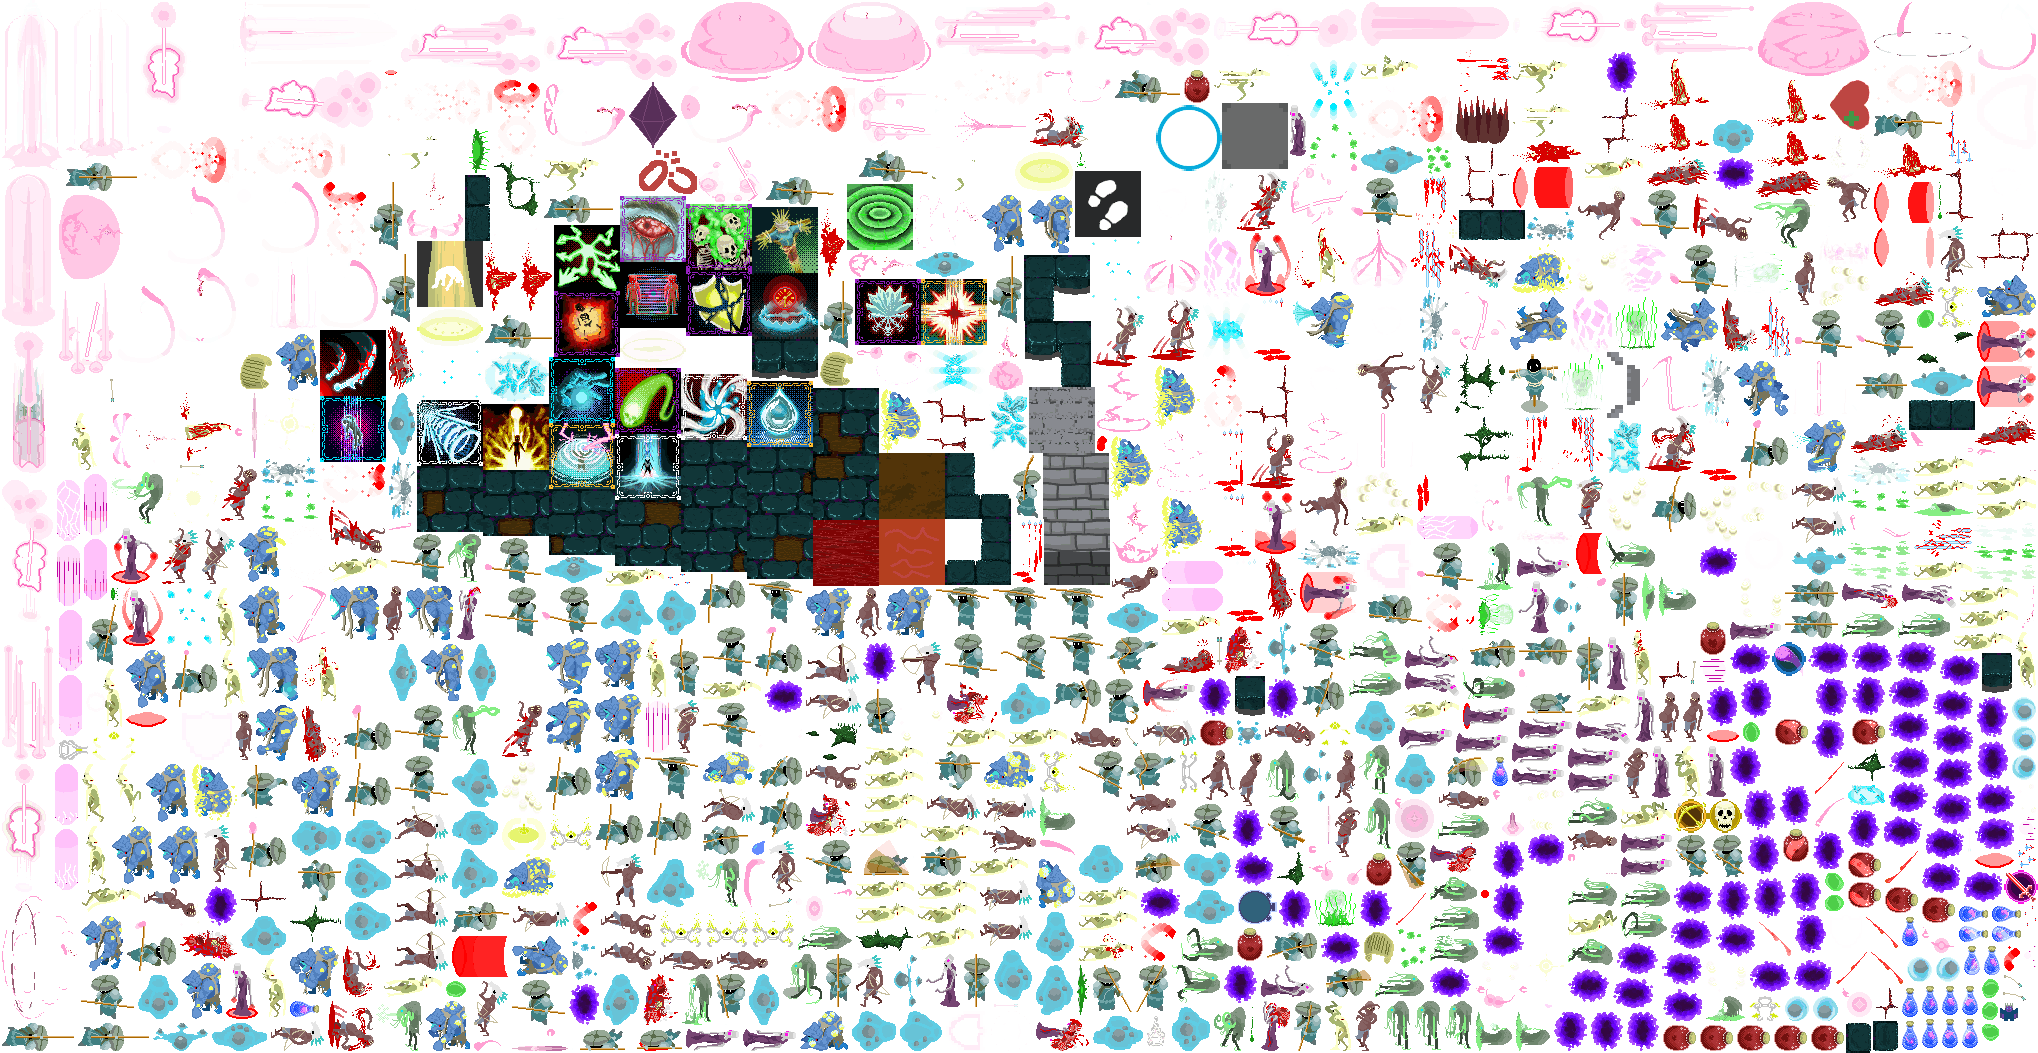
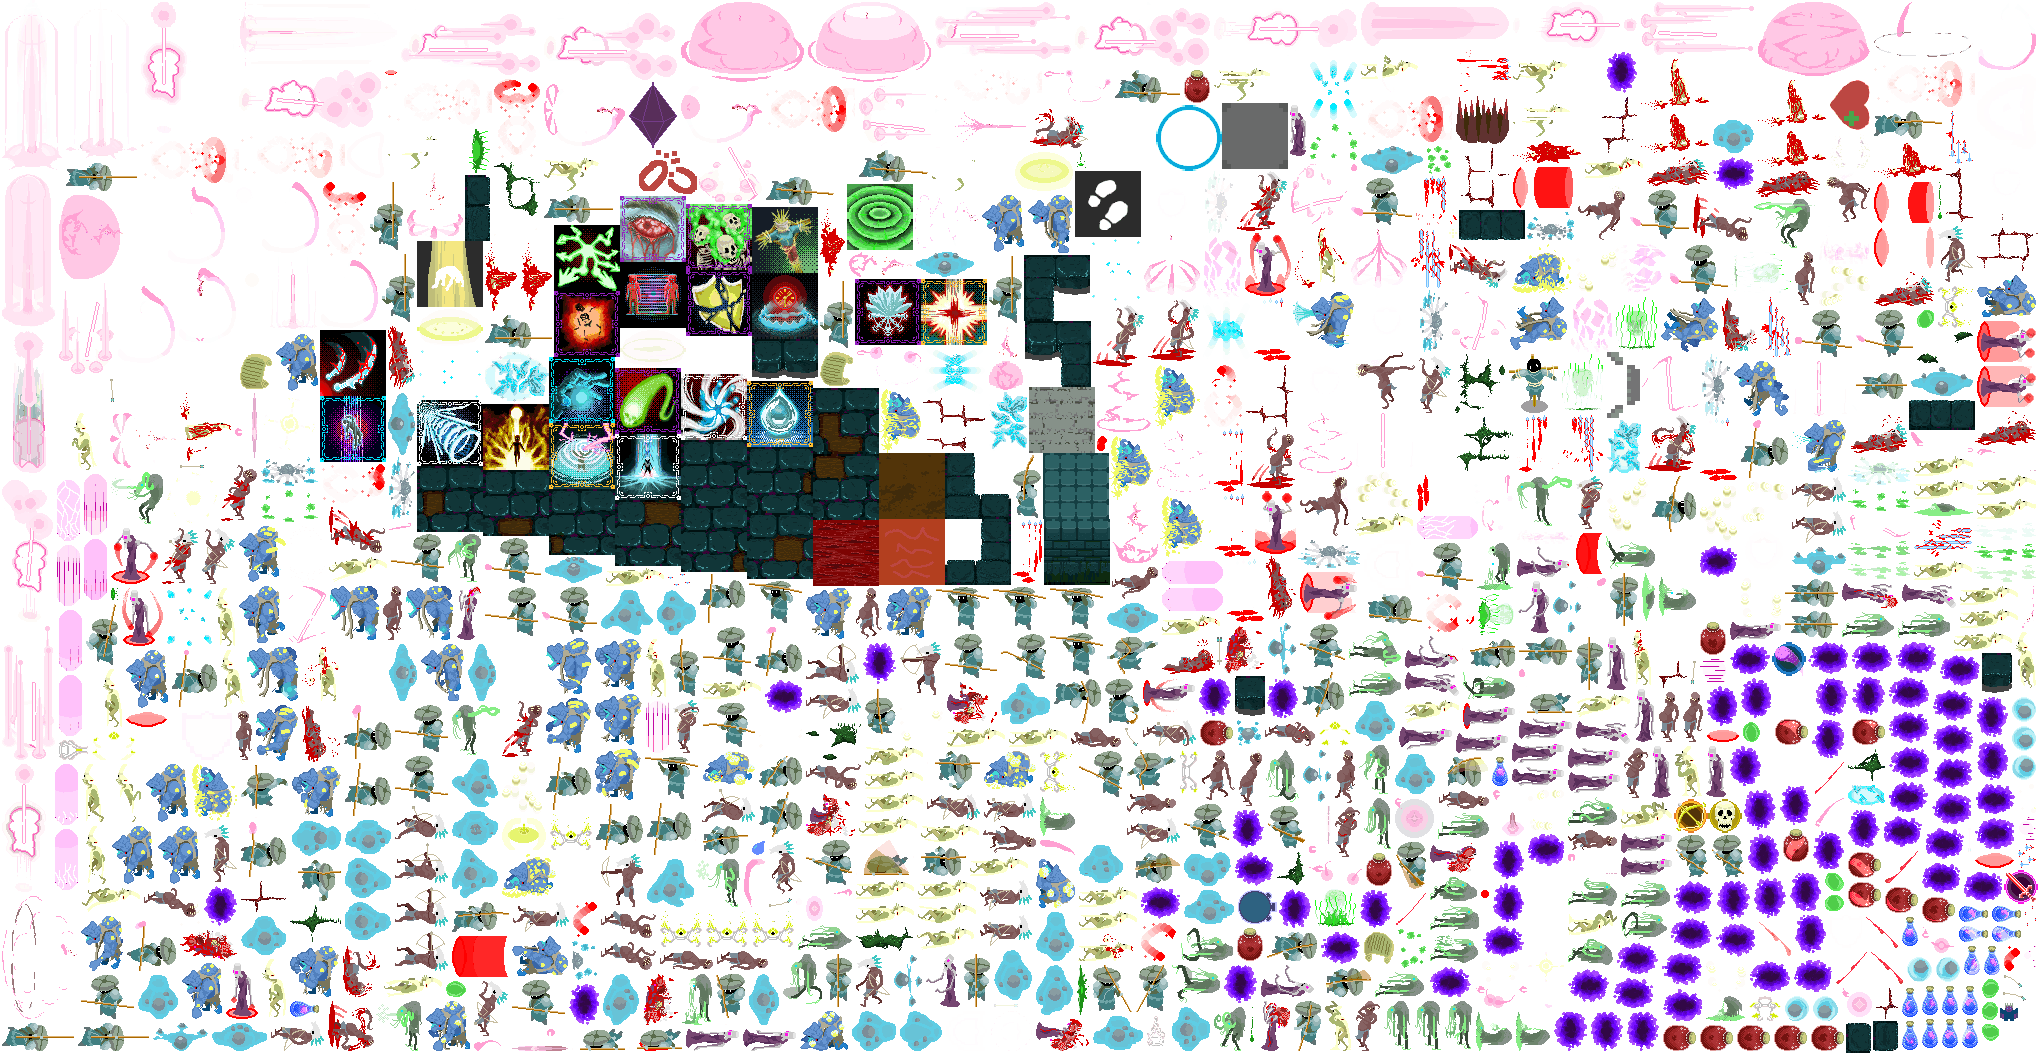
art: Update wall tiles

diff --git a/src/graphics/ui/colors.ts b/src/graphics/ui/colors.ts
@@ -4,7 +4,7 @@ export const healthHurtRed = 0x632828;
 export const healthRed = 0xd55656;
 export const manaBlue = 0x5656d5;
 export const healthAllyGreen = 0x40a058;
-export const abyss = 0x888a90;
+export const abyss = 0x2d6265;
 export const forceMoveColor = 0xffffff;
 export const bloodColorDefault = 0xc70000;
 export const bloodLobber = 0x67c3d7;
